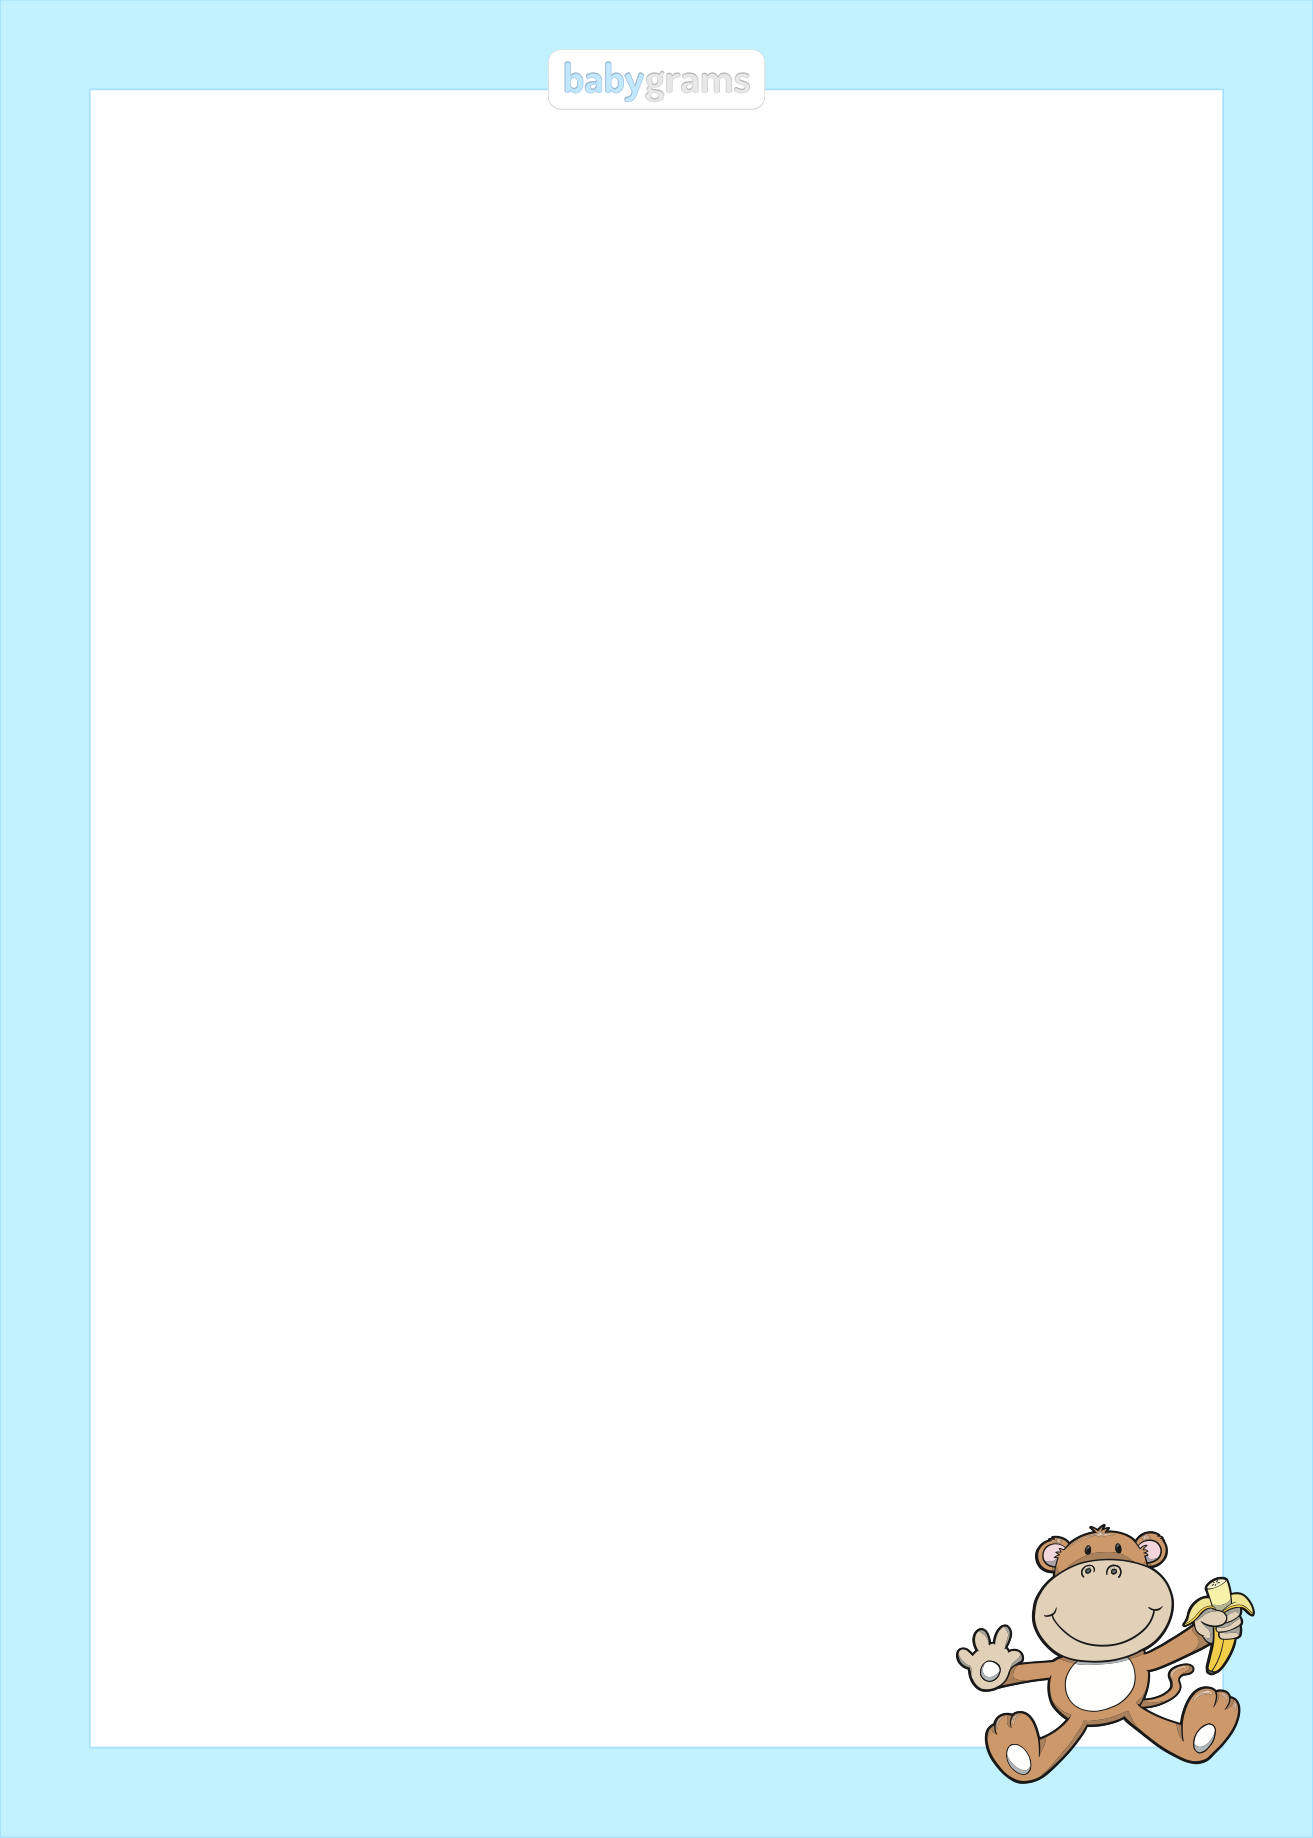
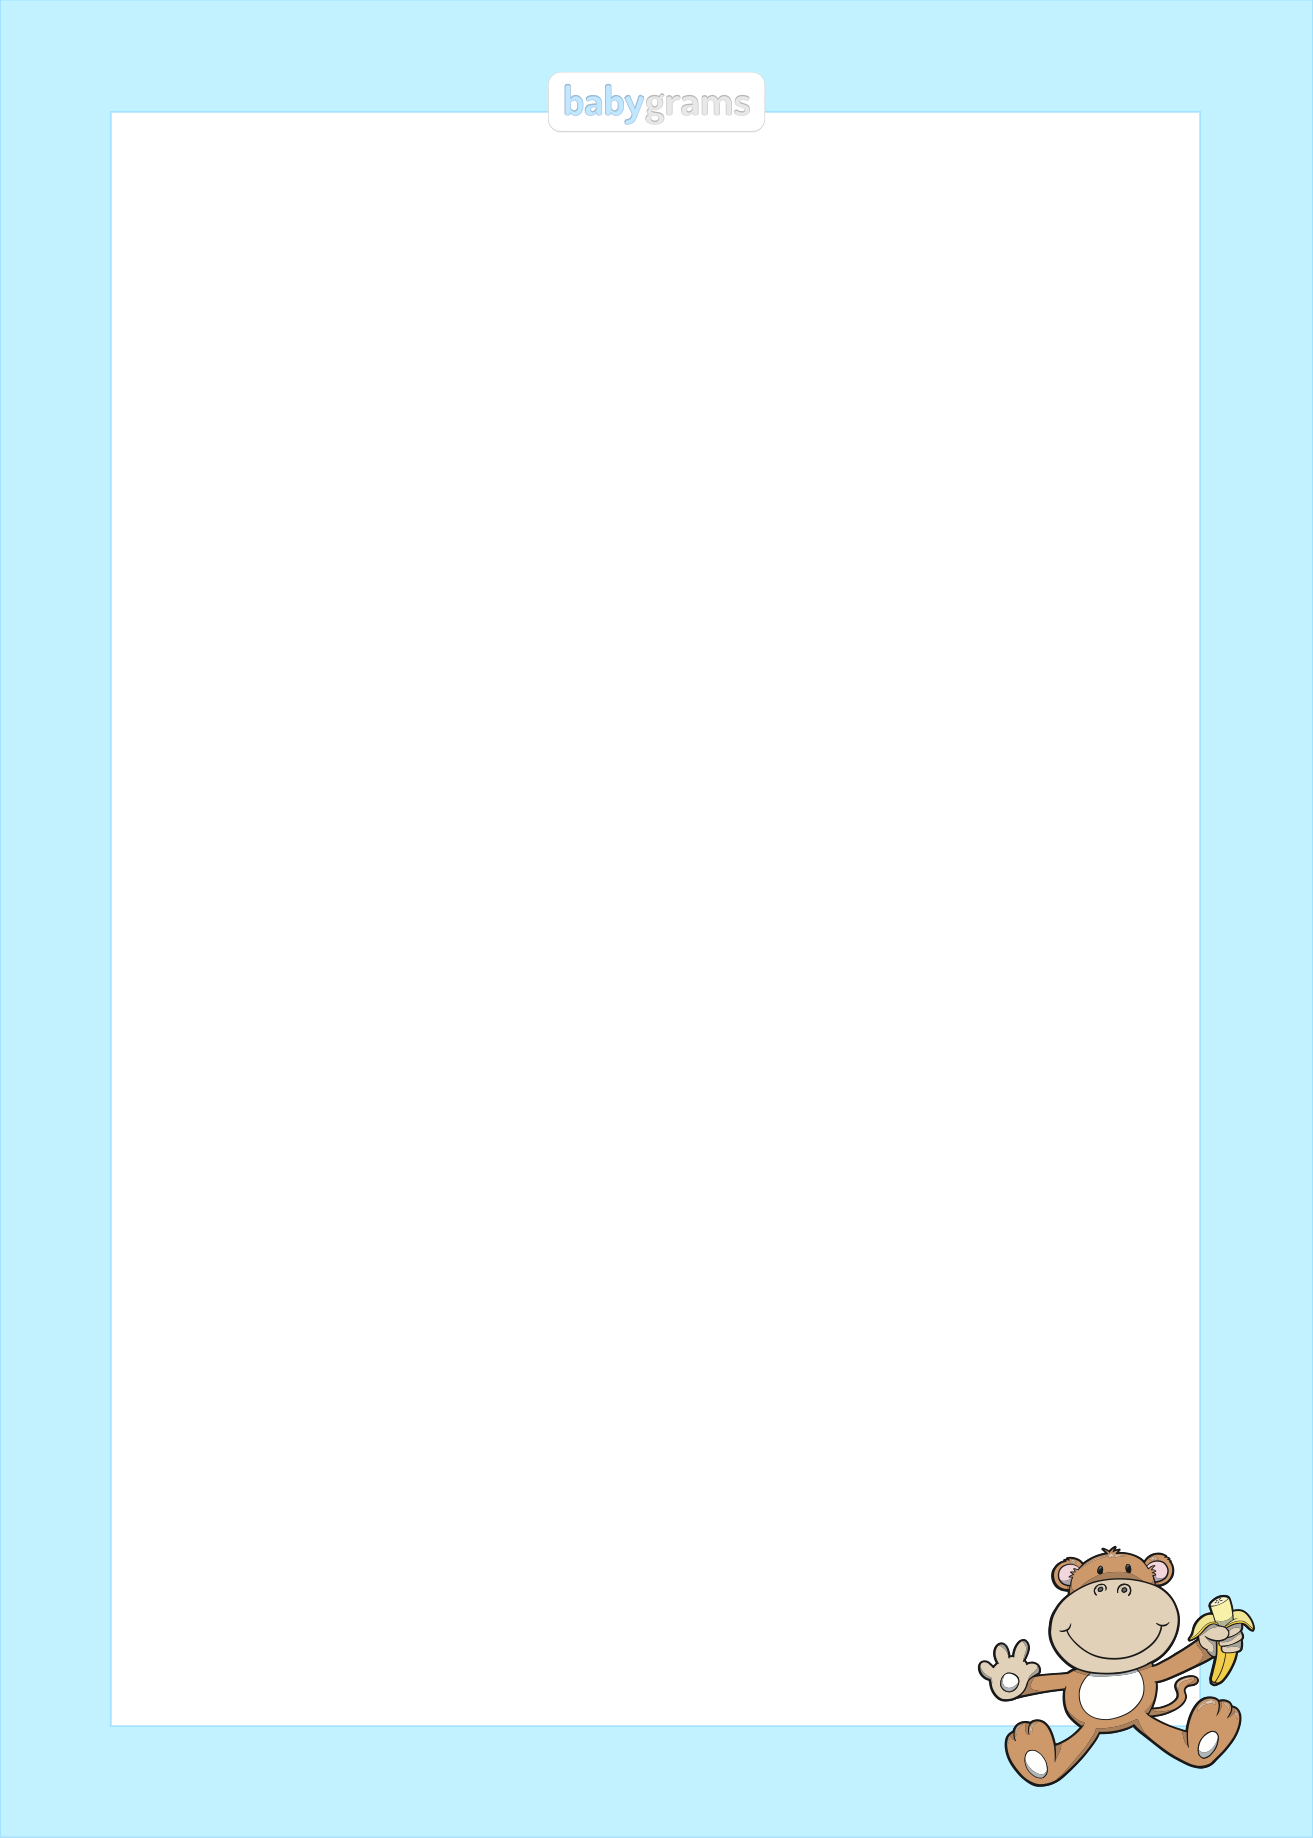
Resized frame

Changed region(s): [[0.0625, 0.0, 0.968, 0.9924]]

diff --git a/lib/postcard_image_generator.rb b/lib/postcard_image_generator.rb
@@ -113,6 +113,14 @@ class PostcardImageGenerator < ImageGenerator
                                     wallet_card = composite.rotate(270)
                                     wallet_card.resize_to_fill!(1050, 750)
                                     
+                                    if app == App.babygrams
+                                      # Move it inside for the babygram frame
+                                      resized_front = composite.resize_to_fill(front_template.rows - 44, front_template.columns - 44)
+                                      resized_front.rotate!(title_on_top ? 90 : 270)
+                                      front.composite!(resized_front, 22, 22, Magick::OverCompositeOp)
+                                      resized_front.try(:destroy!)
+                                    end
+
                                     front.composite!(front_template, 0, 0, Magick::OverCompositeOp)
 
                                     if app == App.babygrams
@@ -243,7 +251,7 @@ class PostcardImageGenerator < ImageGenerator
     draw.fill = "#FFFFFF"
     draw.stroke = '#B8B8B8'
     draw.stroke_width = 2
-    draw.roundrectangle(1620,395,1620 + 146,395 + 530,14,14)
+    draw.roundrectangle(1600,395,1600 + 146,395 + 530,14,14)
     draw.draw(front)
     name = card_design.postcard_subject[:name]
     draw = Magick::Draw.new
@@ -259,7 +267,7 @@ class PostcardImageGenerator < ImageGenerator
     draw.font("'#{Rails.root}/resources/fonts/vagrounded-bold.ttf'")
     draw.text_align(Magick::CenterAlign)
     draw.rotate(270)
-    draw.text(-660, 1688, name)
+    draw.text(-660, 1668, name)
     draw.draw(front)
 
     birthday = card_design.postcard_subject[:birthday]
@@ -278,7 +286,7 @@ class PostcardImageGenerator < ImageGenerator
         draw.font("'#{Rails.root}/resources/fonts/vagrounded-bold.ttf'")
         draw.text_align(Magick::CenterAlign)
         draw.rotate(270)
-        draw.text(-660, 1740, age)
+        draw.text(-660, 1720, age)
         draw.draw(front)
       end
     end
